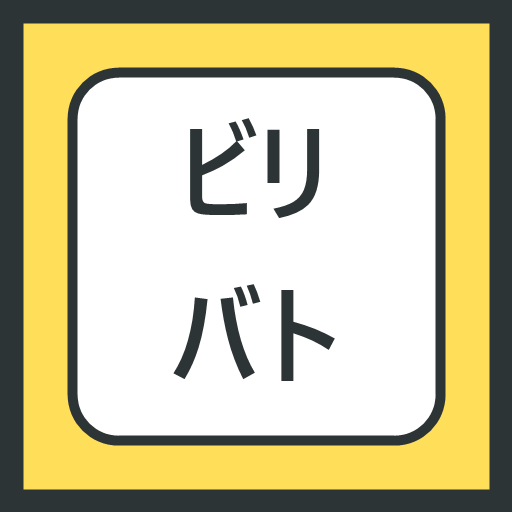
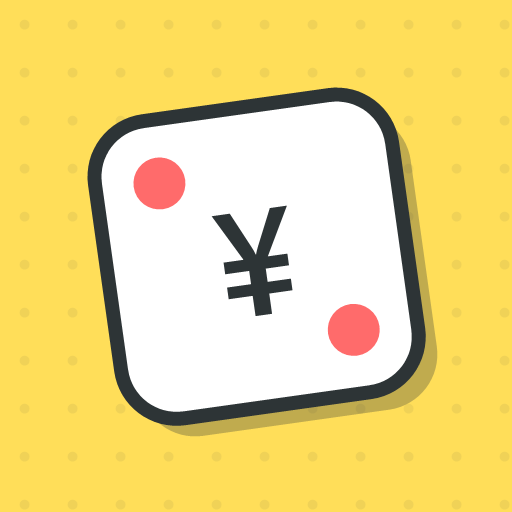
アプリアイコンを刷新（¥の目のサイコロ）・SWキャッシュv2

diff --git a/sw.js b/sw.js
@@ -4,7 +4,7 @@
 //    → ローカルモードはオフラインでも遊べる。アップデートも自然に反映される。
 //  - アイコン等の静的ファイルはキャッシュ優先。
 //  - Firebase / Google認証への通信は一切キャッシュしない（オンライン対戦はリアルタイムが命）。
-const CACHE = 'biribato-v1';
+const CACHE = 'biribato-v2';
 const CORE = ['./index.html', './rules.html', './manifest.webmanifest', './icon-192.png', './icon-512.png', './apple-touch-icon.png'];
 
 self.addEventListener('install', (e) => {